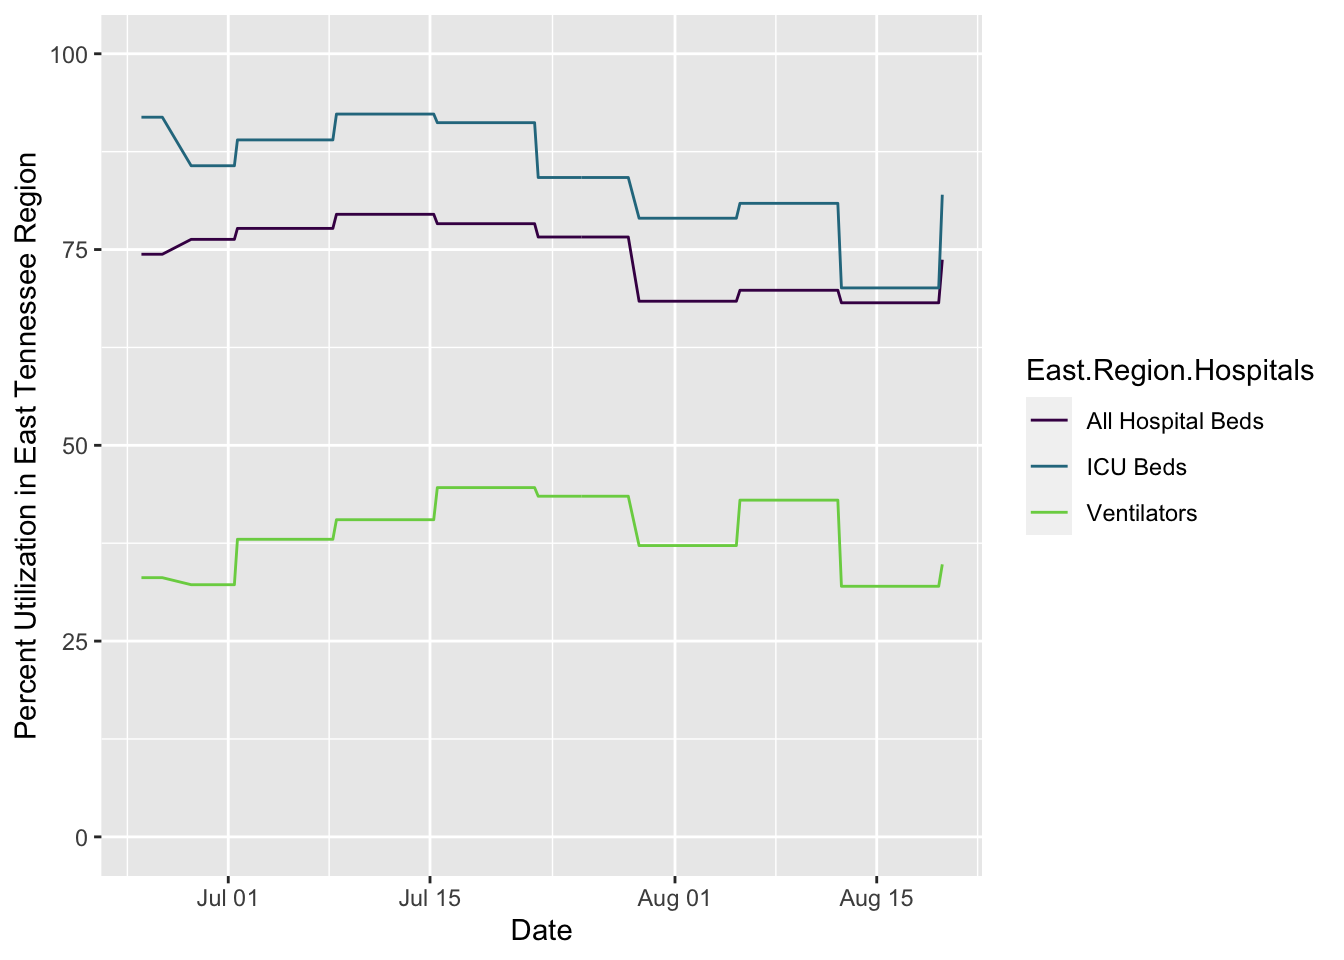
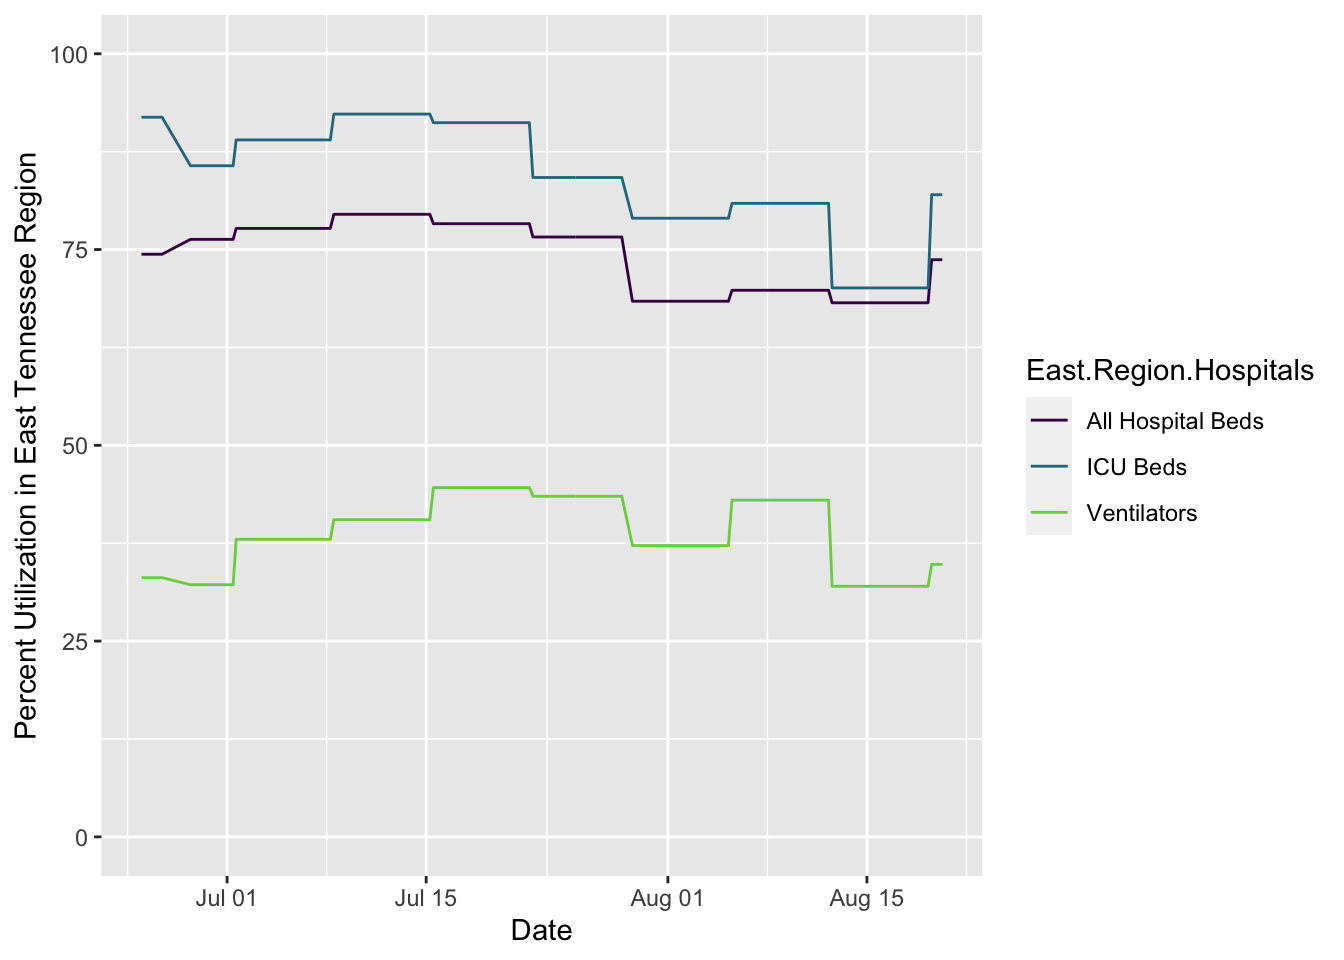
updating site

diff --git a/docs/covid.html b/docs/covid.html
@@ -423,7 +423,7 @@ $(document).ready(function () {
 <li>Info about cases at <a href="#ut">U. of Tennessee, Knoxville</a> (using public information only)</li>
 <li><a href="#webcams">Webcams</a> showing activity at local sites, though not quite at the resolution to point to mask usage or not</li>
 </ul>
-<p>The following plots are created in R using data from <a href="https://covid19datahub.io" class="uri">https://covid19datahub.io</a> (Guidotti, E., Ardia, D., (2020), “COVID-19 Data Hub”, Working paper, doi: 10.13140/RG.2.2.11649.81763), as well as information from Google and the <a href="https://www.tn.gov/health/cedep/ncov/data/downloadable-datasets.html">state of Tennessee dataset page</a> and plotting and analysis using the <code>forecast</code>, <code>ggplot2</code>, <code>reshape2</code>, and <code>dplyr</code> packages. Plots created on 2020-08-19 15:06:03. I use <code>ggplot2</code>’s <code>geom_smooth()</code> function for the smoothed regression plots with its default formula, which uses loess smoothing for this many points. This is not based on a model of disease spread or anything similarly sophisticated, just drawing a smooth curve to summarize noisy points (see <a href="https://www.itl.nist.gov/div898/handbook/pmd/section1/pmd144.htm">here</a> for more details).</p>
+<p>The following plots are created in R using data from <a href="https://covid19datahub.io" class="uri">https://covid19datahub.io</a> (Guidotti, E., Ardia, D., (2020), “COVID-19 Data Hub”, Working paper, doi: 10.13140/RG.2.2.11649.81763), as well as information from Google and the <a href="https://www.tn.gov/health/cedep/ncov/data/downloadable-datasets.html">state of Tennessee dataset page</a> and plotting and analysis using the <code>forecast</code>, <code>ggplot2</code>, <code>reshape2</code>, and <code>dplyr</code> packages. Plots created on 2020-08-20 09:45:34. I use <code>ggplot2</code>’s <code>geom_smooth()</code> function for the smoothed regression plots with its default formula, which uses loess smoothing for this many points. This is not based on a model of disease spread or anything similarly sophisticated, just drawing a smooth curve to summarize noisy points (see <a href="https://www.itl.nist.gov/div898/handbook/pmd/section1/pmd144.htm">here</a> for more details).</p>
 <h2 id="cases">
 Cases
 </h2>
@@ -459,7 +459,7 @@ Schooling
 <h2 id="hospitalization">
 Hospitalization
 </h2>
-<p>As of the last time the data were updated (likely 0 days ago), regional hospitals had 50 ICU beds available of 278 total, and 163 available ventilators out of 250 total. This is based on 19 acute care hospitals in the East TN region; based on the 14 counties these hospitals are in, these serve at least 1,235,720 people. When a line hits 100%, the local hospitals are theoretically full for that resource (for all patients, not just covid patients), though there is surge capacity on top of this. Note that these data are updated only weekly, so current conditions maybe be much better or worse than these plots show. Data on capacity from Knox County’s dashboard, data on hospitalizations and testing over time from the state data.</p>
+<p>As of the last time the data were updated (likely 1 days ago), regional hospitals had 50 ICU beds available of 278 total, and 163 available ventilators out of 250 total. This is based on 19 acute care hospitals in the East TN region; based on the 14 counties these hospitals are in, these serve at least 1,235,720 people. When a line hits 100%, the local hospitals are theoretically full for that resource (for all patients, not just covid patients), though there is surge capacity on top of this. Note that these data are updated only weekly, so current conditions maybe be much better or worse than these plots show. Data on capacity from Knox County’s dashboard, data on hospitalizations and testing over time from the state data.</p>
 <p><img src="covid_files/figure-html/hospitalcapacityplot-1.png" width="672" /></p>
 <p>Trends in hospitalization of covid patients over time. The vertical dotted line shows the last day with updated capacity information, when there were 50 ICU beds available (ignoring surge capacity) for people in the East Tennessee region.</p>
 <p><img src="covid_files/figure-html/plotsD-1.png" width="672" /></p>
